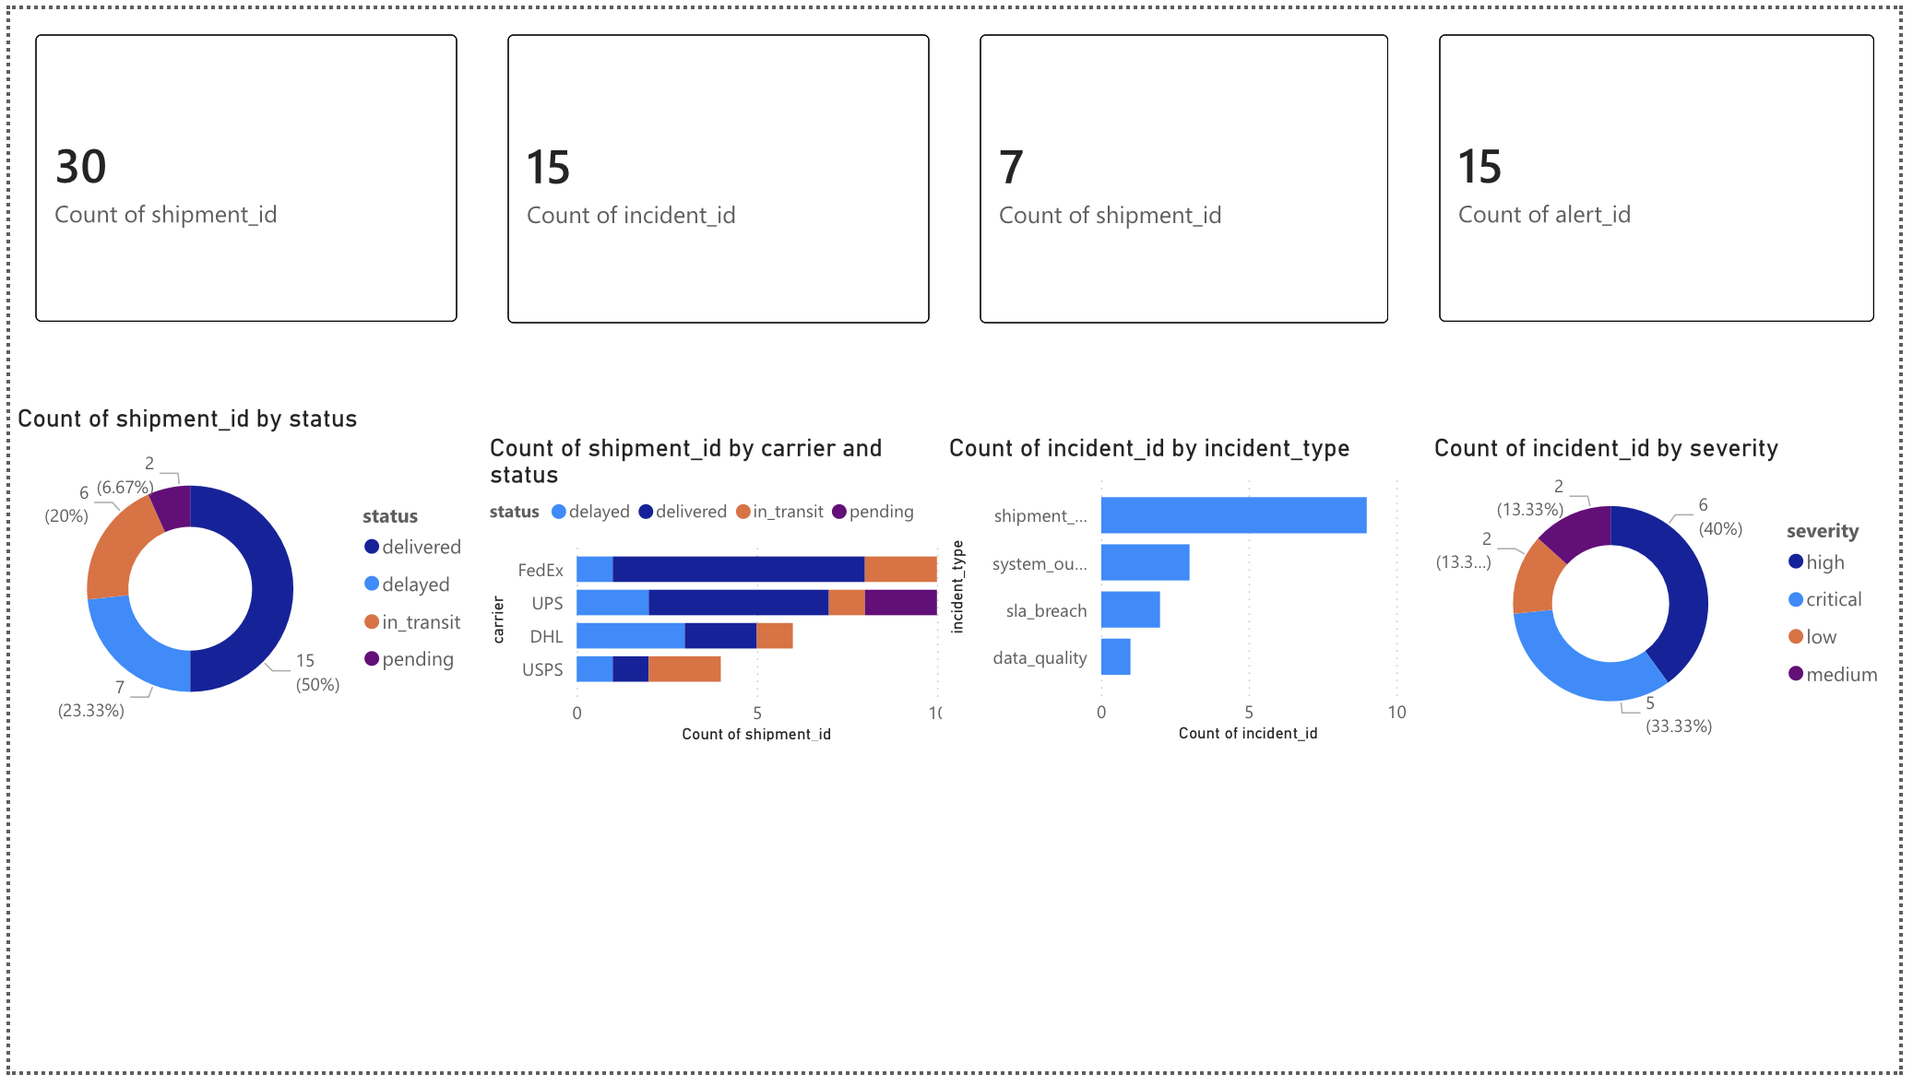
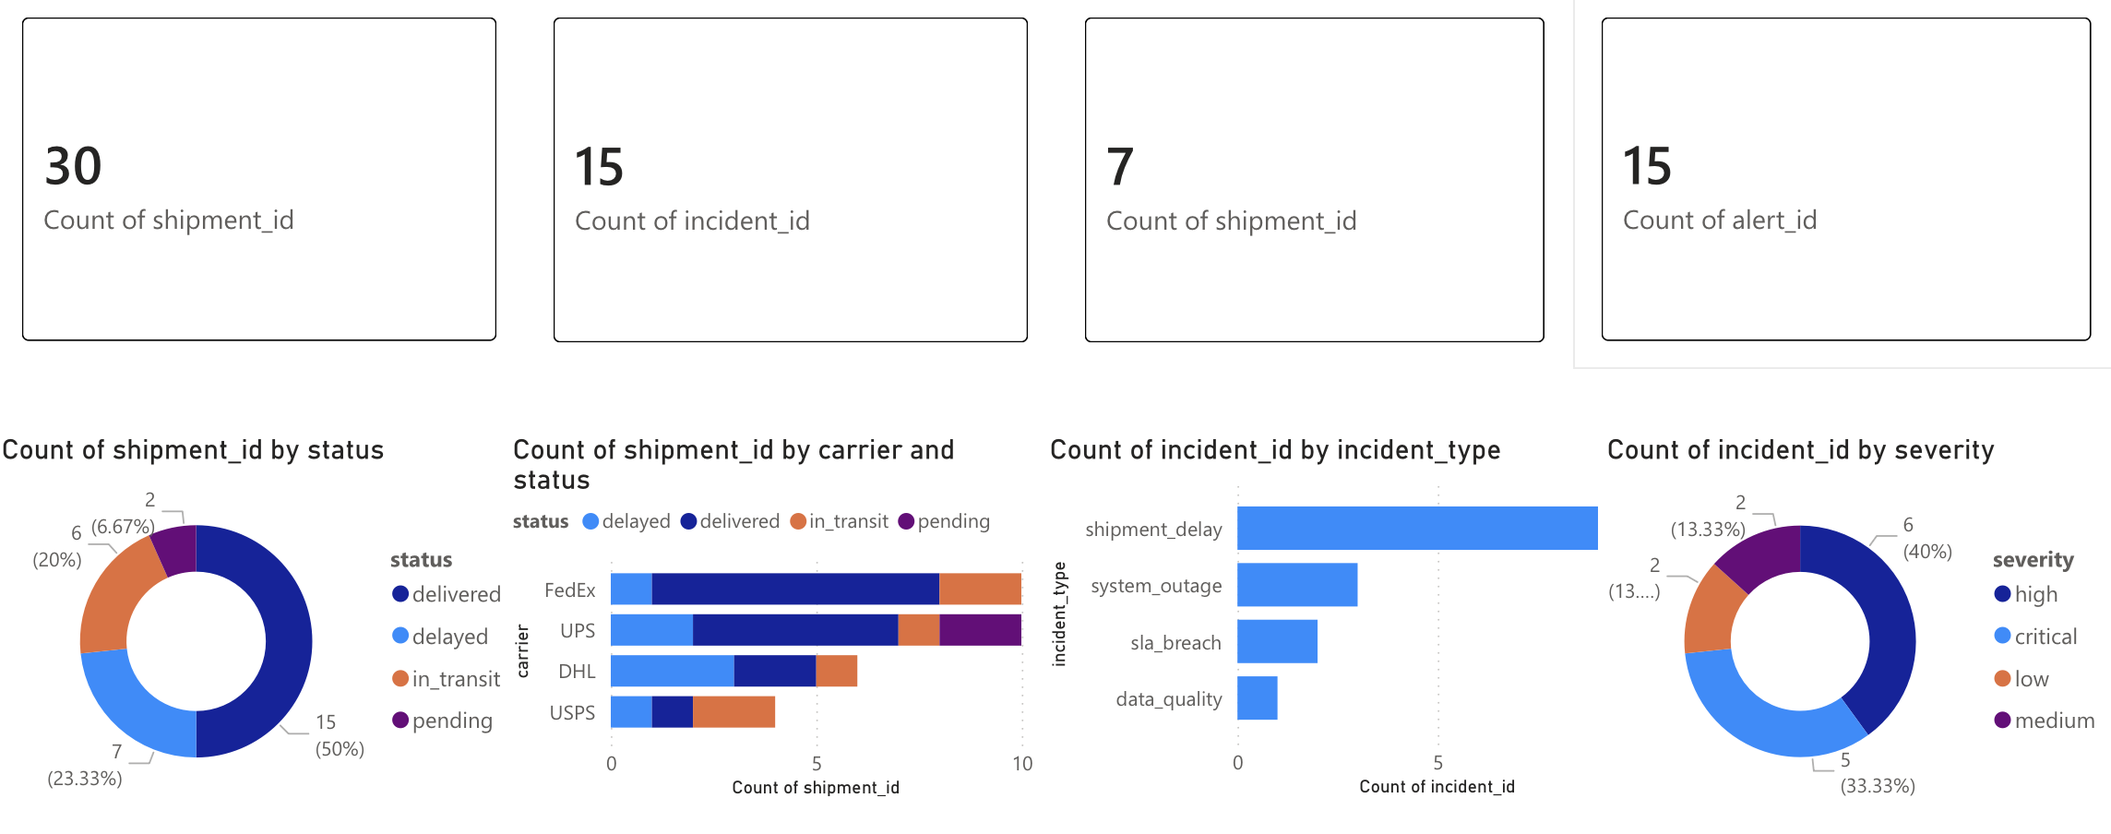
Simplify README and docs, update dashboard screenshots
- Rewrite README in clearer language with sample data disclaimer
- Update Power BI screenshots with latest dashboard versions
- Simplify architecture and design decision docs
- Remove unnecessary setup script

diff --git a/docs/architecture.md b/docs/architecture.md
@@ -1,97 +1,44 @@
-# Architecture Overview
+# Architecture
 
-## System Design
+## How It Works
 
 ```
-┌─────────────────────────────────────────────────────────────────┐
-│                    Operations Command Center                     │
-├─────────────────────────────────────────────────────────────────┤
-│                                                                  │
-│   ┌──────────────┐    ┌──────────────┐    ┌──────────────┐      │
-│   │  Shipment     │    │  IT Systems   │    │  Metrics     │      │
-│   │  Events       │    │  Events       │    │  Feeds       │      │
-│   └──────┬───────┘    └──────┬───────┘    └──────┬───────┘      │
-│          │                    │                    │              │
-│          └────────────┬───────┴────────────┬──────┘              │
-│                       ▼                    ▼                     │
-│          ┌─────────────────────────────────────┐                │
-│          │       Anomaly Detection Engine       │                │
-│          │  - Delay detection (>12hr threshold)  │                │
-│          │  - SLA breach detection (>24hr)       │                │
-│          │  - Metric threshold violations        │                │
-│          └─────────────┬───────────────────────┘                │
-│                        ▼                                        │
-│          ┌─────────────────────────────────────┐                │
-│          │         PostgreSQL Database          │                │
-│          │  - shipments    - incidents           │                │
-│          │  - alerts       - operations_metrics  │                │
-│          └─────────────┬───────────────────────┘                │
-│                        ▼                                        │
-│          ┌─────────────────────────────────────┐                │
-│          │        FastAPI Backend (REST)        │                │
-│          │  - CRUD operations                   │                │
-│          │  - KPI aggregation                   │                │
-│          │  - Trend analytics                   │                │
-│          └──────────┬──────────────────────────┘                │
-│                     ▼                                           │
-│     ┌───────────────────────────────────────────┐               │
-│     │          React Dashboard (MUI)            │               │
-│     │  - KPI Cards    - Incident Table          │               │
-│     │  - Alert Panel  - Analytics Charts        │               │
-│     │  - Shipment Tracker                       │               │
-│     └───────────────┬───────────────────────────┘               │
-│                     ▼                                           │
-│     ┌───────────────────────────────────────────┐               │
-│     │      AI Summarizer (Claude API)           │               │
-│     │  - Root-cause analysis                    │               │
-│     │  - Recommended actions                    │               │
-│     │  - Preventive measures                    │               │
-│     │  - Rule-based fallback when no API key    │               │
-│     └───────────────────────────────────────────┘               │
-│                                                                  │
-└─────────────────────────────────────────────────────────────────┘
+┌──────────────────────────────────────────────────┐
+│            Operations Command Center              │
+│                                                    │
+│   Shipment Events    IT Events    Metric Feeds    │
+│         │               │              │          │
+│         └───────┬───────┴──────┬───────┘          │
+│                 ▼              ▼                   │
+│        Anomaly Detection Engine                   │
+│        - Delay detection (>12hr)                  │
+│        - SLA breach detection (>24hr)             │
+│                 ▼                                  │
+│           PostgreSQL                              │
+│        - shipments                                │
+│        - incidents                                │
+│        - alerts                                   │
+│        - operations_metrics                       │
+│                 ▼                                  │
+│         FastAPI Backend                           │
+│        - REST API                                 │
+│        - KPI aggregation                          │
+│                 ▼                                  │
+│     React Dashboard    Power BI Dashboards        │
+│                 ▼                                  │
+│       AI Summarizer (Claude API)                  │
+│       - Root-cause analysis                       │
+│       - Recommended actions                       │
+│       - Rule-based fallback                       │
+└──────────────────────────────────────────────────┘
 ```
 
 ## Data Model
 
-### shipments
-Tracks orders across the supply chain lifecycle.
+**shipments** — Tracks orders from origin to destination with carrier, status, priority, and delivery dates.
 
-| Column            | Type     | Description                      |
-|-------------------|----------|----------------------------------|
-| id                | int (PK) | Auto-increment ID                |
-| order_id          | string   | Business order identifier        |
-| origin            | string   | Ship-from location               |
-| destination       | string   | Ship-to location                 |
-| carrier           | string   | Shipping carrier                 |
-| status            | enum     | pending/in_transit/delayed/delivered/failed |
-| priority          | string   | normal/high/critical             |
-| expected_delivery | datetime | Committed delivery date          |
-| actual_delivery   | datetime | Actual delivery (null if pending)|
+**incidents** — Operational events needing investigation. Linked to shipments when applicable. Tracks severity, status, assigned team, and AI-generated summaries.
 
-### incidents
-Operational events requiring investigation and resolution.
+**alerts** — Notifications triggered by anomaly detection. Linked to incidents. Can be acknowledged by operators.
 
-| Column        | Type     | Description                         |
-|---------------|----------|-------------------------------------|
-| id            | int (PK) | Auto-increment ID                   |
-| title         | string   | Short incident description          |
-| incident_type | string   | shipment_delay/system_outage/sla_breach/data_quality |
-| severity      | enum     | low/medium/high/critical            |
-| status        | enum     | open/investigating/resolved/closed  |
-| assigned_team | string   | Responsible operations team         |
-| shipment_id   | int (FK) | Linked shipment (if applicable)     |
-| ai_summary    | text     | AI-generated root-cause analysis    |
-
-### alerts
-Time-stamped notifications triggered by anomaly detection.
-
-### operations_metrics
-Time-series KPI data (on-time delivery rate, resolution time, volume, etc.)
-
-## Key Design Patterns
-
-1. **On-demand anomaly detection** — `/api/detect/run` scans all data and creates incidents/alerts
-2. **AI with graceful degradation** — Claude API for summaries, rule-based fallback when unavailable
-3. **KPI aggregation at query time** — Real-time accuracy without materialized view complexity
-4. **Severity escalation** — SLA breaches auto-escalate incidents to critical
+**operations_metrics** — Time-series KPI data: on-time delivery rate, average resolution time, shipment volume by region.

diff --git a/README.md b/README.md
@@ -1,78 +1,54 @@
 # Operations Command Center
 
-A real-time operational monitoring, incident management, and analytics platform built for a logistics/distribution consulting engagement. Aggregates shipment data, detects anomalies, and provides executive-level dashboards for operations teams.
+An operations monitoring and incident management platform built for a logistics consulting engagement. Pulls shipment data into one place, flags problems automatically, and gives operations managers dashboards to act on.
 
-## Problem
+> **Note:** This repo uses simulated sample data that mirrors real-world operational patterns. No actual client data is included.
 
-A distribution client operating out of Texas was managing shipments across the US using fragmented systems — spreadsheets, separate carrier portals (FedEx, UPS, DHL), and manual check-ins. When shipments got delayed or SLAs were breached, nobody knew until customers complained. There was no single view of operations.
+## The Problem
 
-## Solution
+A distribution client was tracking shipments across FedEx, UPS, and DHL using separate carrier portals and spreadsheets. When shipments got delayed or SLAs were missed, no one knew until the customer called. There was no single view of what was happening across operations.
+
+## What I Built
 
 A centralized command center that:
-- Aggregates shipment, incident, and operational metric data into one platform
-- Automatically detects delayed shipments and SLA breaches
-- Provides real-time KPI dashboards for operations managers
-- Generates AI-powered root-cause analysis for incidents
-- Enables incident lifecycle management (create → assign → investigate → resolve)
+- Pulls shipment, incident, and metric data into one platform
+- Flags delayed shipments and SLA breaches automatically
+- Shows real-time KPI dashboards for the operations team
+- Generates AI-powered root-cause summaries for incidents
+- Tracks incidents through their full lifecycle (open → investigating → resolved)
 
 ## Power BI Dashboards
 
 ### Executive Overview
-KPI cards (total shipments, incidents, delays, alerts), shipment status by carrier, incident breakdown by type and severity.
-
 ![Executive Overview](docs/screenshots/dashboard-overview.png)
 
 ### Incident Analysis
-Incident detail table with severity slicer, team workload distribution, and incident status breakdown.
-
 ![Incident Analysis](docs/screenshots/dashboard-incidents.png)
 
 ### Operations Metrics
-Operational KPI data table with metric filtering — on-time delivery rates, average resolution times, and shipment volumes across regions.
-
 ![Operations Metrics](docs/screenshots/dashboard-metrics.png)
-
-## Architecture
-
-```
-Data Sources (Shipments, IT Events, Metrics)
-            ↓
-   Anomaly Detection Engine
-            ↓
-   PostgreSQL Data Store
-            ↓
-   FastAPI Backend (REST API)
-            ↓
-   React Dashboard (Real-time UI)
-        ↓           ↓
-  Power BI      AI Summarizer
-  Analytics     (Claude API)
-```
 
 ## Tech Stack
 
 | Layer      | Technology                          |
 |------------|-------------------------------------|
-| Frontend   | React 19, Material UI, Recharts     |
+| Frontend   | React, Material UI, Recharts        |
 | Backend    | Python FastAPI, SQLAlchemy           |
-| Database   | PostgreSQL 16                        |
+| Database   | PostgreSQL                           |
 | Analytics  | Power BI, DAX Measures               |
 | AI         | Claude API (with rule-based fallback)|
 | Infra      | Docker Compose                       |
 
 ## Key Features
 
-- **Real-Time KPI Dashboard** — Open incidents, active alerts, delayed shipments, SLA compliance, avg resolution time
+- **KPI Dashboard** — Total shipments, open incidents, delayed shipments, active alerts at a glance
 - **Power BI Analytics** — Interactive dashboards with DAX measures, severity slicers, and cross-filtered visuals
-- **Incident Management** — Full lifecycle tracking: create, assign, investigate, and resolve operational incidents
-- **Anomaly Detection** — Automated detection of shipment delays (>12hr threshold) and SLA breaches (>24hr)
-- **AI Root-Cause Analysis** — Claude-powered incident summaries with recommended actions (rule-based fallback when no API key)
-- **Alert System** — Real-time alerts with severity levels, acknowledgment workflow, and incident linking
-- **Shipment Tracking** — End-to-end visibility into orders across carriers with status and priority tracking
+- **Incident Management** — Create, assign, investigate, and resolve incidents with full tracking
+- **Anomaly Detection** — Auto-detects shipment delays (>12hr) and SLA breaches (>24hr), creates incidents and alerts
+- **AI Summaries** — Generates root-cause analysis and recommended actions for incidents using Claude API (falls back to rule-based logic without an API key)
+- **Shipment Tracking** — Status, carrier, priority, and delivery tracking across all orders
 
 ## DAX Measures
-
-Custom DAX measures built for the Power BI dashboards:
 
 ```dax
 Open Incidents =
@@ -96,9 +72,9 @@ AVERAGEX(
 )
 ```
 
-## Quick Start
+## How to Run
 
-### Docker (Recommended)
+### Docker
 
 ```bash
 docker compose up
@@ -123,24 +99,22 @@ cd frontend
 npm install
 npm run dev
 
-# Database (requires PostgreSQL running)
+# Database (requires PostgreSQL)
 createdb opscenter
 psql -U postgres -d opscenter -f data/seed_data.sql
 ```
 
 ### Power BI
 
-1. Open Power BI and import the CSV files from `data/csv/`
-2. Load all 4 tables: shipments, incidents, alerts, operations_metrics
-3. Build dashboards using the DAX measures above
+Import the CSV files from `data/csv/` into Power BI and build dashboards using the DAX measures above.
 
-### AI Integration (Optional)
+### AI Summaries (Optional)
 
 ```bash
 export ANTHROPIC_API_KEY=your_key_here
 ```
 
-Without a key, the system uses intelligent rule-based fallback summaries.
+Works without a key — uses rule-based fallback summaries.
 
 ## API Endpoints
 
@@ -150,29 +124,34 @@ Without a key, the system uses intelligent rule-based fallback summaries.
 | GET    | `/api/incidents`                      | List incidents (filterable)    |
 | POST   | `/api/incidents`                      | Create incident                |
 | PATCH  | `/api/incidents/:id`                  | Update incident                |
-| GET    | `/api/incidents/trend`                | Incident trend over time       |
 | GET    | `/api/alerts`                         | List alerts                    |
 | PATCH  | `/api/alerts/:id/acknowledge`         | Acknowledge alert              |
 | GET    | `/api/shipments`                      | List shipments                 |
 | GET    | `/api/metrics`                        | Operational metrics            |
-| GET    | `/api/metrics/delays-by-region`       | Delay distribution by region   |
-| POST   | `/api/detect/run`                     | Trigger anomaly detection scan |
-| POST   | `/api/detect/incidents/:id/ai-summary`| Generate AI root-cause summary |
+| POST   | `/api/detect/run`                     | Run anomaly detection scan     |
+| POST   | `/api/detect/incidents/:id/ai-summary`| Generate AI summary            |
 
-## Design Decisions
+## Sample Data
 
-- **FastAPI over Express** — Native Python data processing, async support, automatic OpenAPI docs
-- **Power BI for analytics** — Enterprise-grade BI tool with DAX for complex business logic; demonstrates real analytics engineering skills
-- **Rule-based fallback for AI** — System remains fully functional without API key; no hard dependency on external service
-- **Simulated realistic data** — 30 shipments across 5 TX origins, 15 incidents, 15 alerts, 55 metric records across 5 regions — mirrors production patterns without exposing real data
-- **Dark theme UI** — Operations centers typically use dark interfaces to reduce eye strain during extended monitoring
+The `data/csv/` folder contains simulated operational data:
+- **30 shipments** across 5 Texas origins to destinations nationwide
+- **15 incidents** (delays, outages, SLA breaches, data quality issues)
+- **15 alerts** linked to incidents with severity levels
+- **55 metric records** tracking delivery rates, resolution times, and volumes across 5 regions
 
-## Future Improvements
+## Architecture
 
-- Streaming data ingestion (Kafka / Redis Streams)
-- Predictive delay scoring with ML models
-- Role-based access control (Admin / Operator / Viewer)
-- Email/Slack alert notifications
-- Power BI embedded analytics via API
-- Automated incident recommendations
-- WebSocket real-time dashboard updates
+```
+Shipment / IT / Metric Data
+          ↓
+  Anomaly Detection Engine
+          ↓
+     PostgreSQL
+          ↓
+   FastAPI REST API
+      ↓         ↓
+React Dashboard  Power BI
+      ↓
+ AI Summarizer
+ (Claude API)
+```

diff --git a/docs/design-decisions.md b/docs/design-decisions.md
@@ -1,37 +1,16 @@
 # Design Decisions
 
-## 1. FastAPI over Express/Node
+**Why FastAPI?**
+Python works well for data processing and has good support for async operations. FastAPI also generates API docs automatically at `/docs`.
 
-**Decision:** Python FastAPI for the backend.
+**Why Power BI alongside React?**
+The React dashboard handles real-time interaction (creating incidents, acknowledging alerts). Power BI handles the analytics side — DAX measures, slicers, and the kind of executive-level reporting that operations managers expect.
 
-**Why:** Native data processing capabilities with pandas-ready ecosystem, automatic OpenAPI documentation, and async support. Python aligns with data engineering and analytics workflows that are core to operations monitoring.
+**Why simulated data?**
+Real client data can't be shared publicly. The sample data uses realistic patterns — multiple carriers, varying delay lengths, different severity levels, regional metrics — so the dashboards and detection logic behave the same way they would with production data.
 
-## 2. Dark Theme Operations UI
+**Why rule-based AI fallback?**
+The system should work without an API key. The fallback generates structured root-cause analysis based on incident type, so the feature is usable even without Claude API access.
 
-**Decision:** Dark theme MUI dashboard.
-
-**Why:** Real operations centers and NOCs (Network Operations Centers) universally use dark interfaces. Reduces eye strain during extended monitoring shifts and improves visual contrast for alerts and severity indicators.
-
-## 3. AI Summarizer with Rule-Based Fallback
-
-**Decision:** Claude API for intelligent summaries, with comprehensive rule-based fallback.
-
-**Why:** The system must remain fully functional without external API dependencies. The fallback generates structured root-cause analysis, recommended actions, and preventive measures based on incident type — useful enough for demonstrations and environments without API access.
-
-## 4. On-Demand Anomaly Detection
-
-**Decision:** Detection runs via API call rather than continuous streaming.
-
-**Why:** Simplifies the architecture while demonstrating the full detection → incident → alert pipeline. In production, this would be replaced with scheduled cron jobs or event-driven triggers (Kafka consumers).
-
-## 5. KPI Aggregation at Query Time
-
-**Decision:** KPIs computed from live data on each request rather than materialized views.
-
-**Why:** Ensures real-time accuracy with the current data volume. At scale, this would be replaced with pre-computed metrics tables refreshed on schedule.
-
-## 6. Seed Data with Realistic Scenarios
-
-**Decision:** Pre-populated database with multi-region supply chain data, active incidents, and historical metrics.
-
-**Why:** Enables immediate demonstration of all features without manual data entry. The seed data covers edge cases: on-time deliveries, delays, system outages, SLA breaches, and data quality issues.
+**Why dark theme?**
+Operations centers and NOCs use dark interfaces to reduce eye strain during long monitoring shifts.
